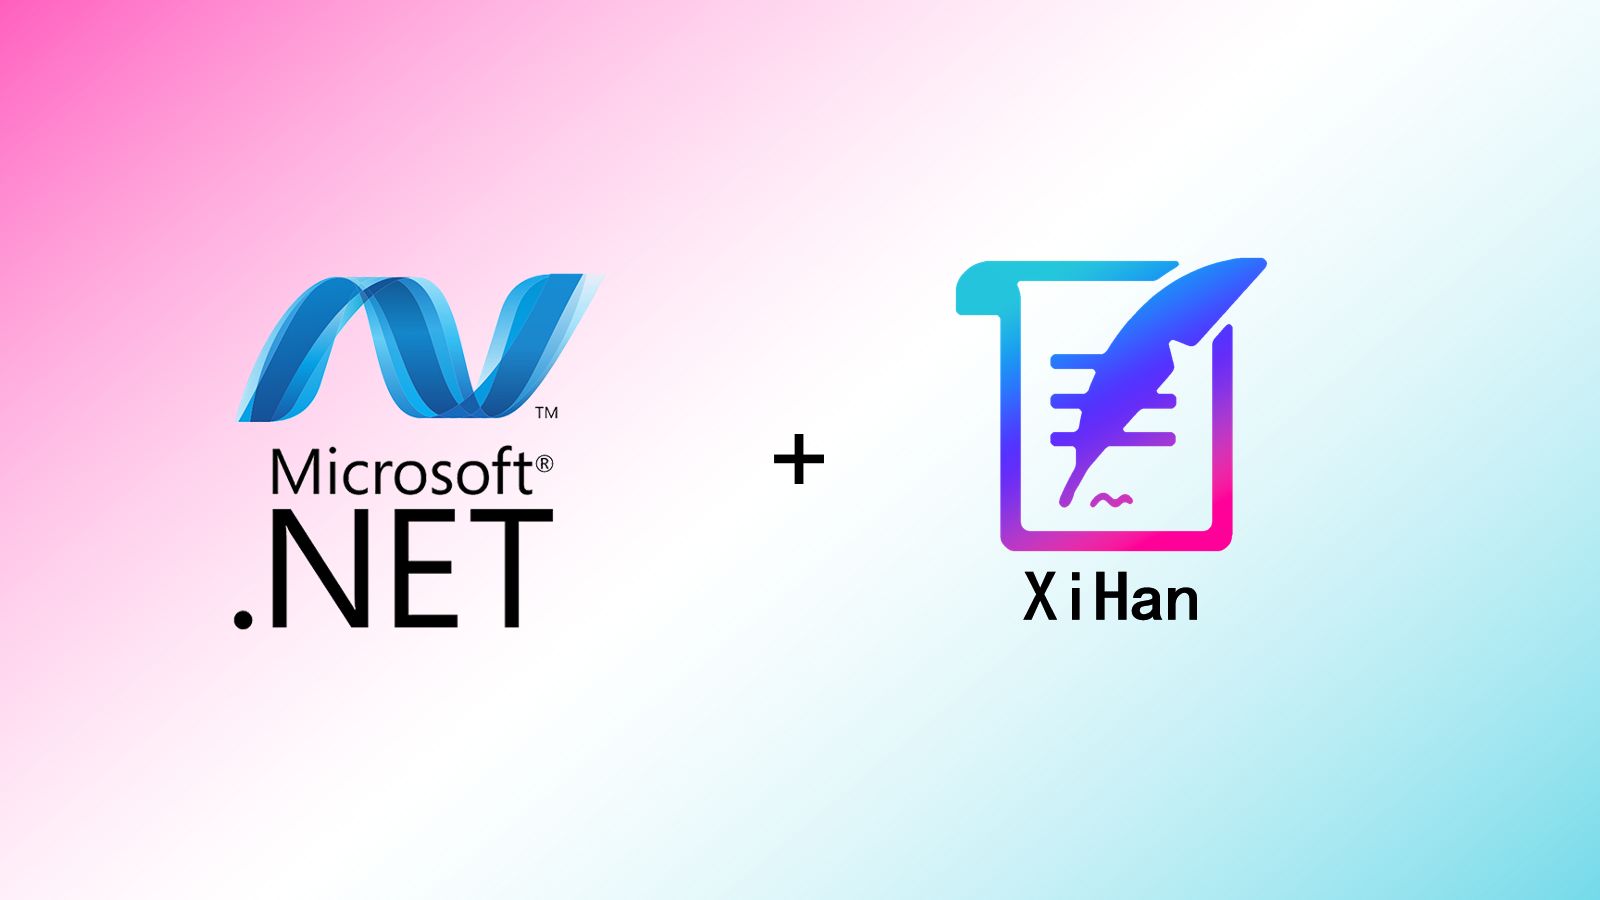
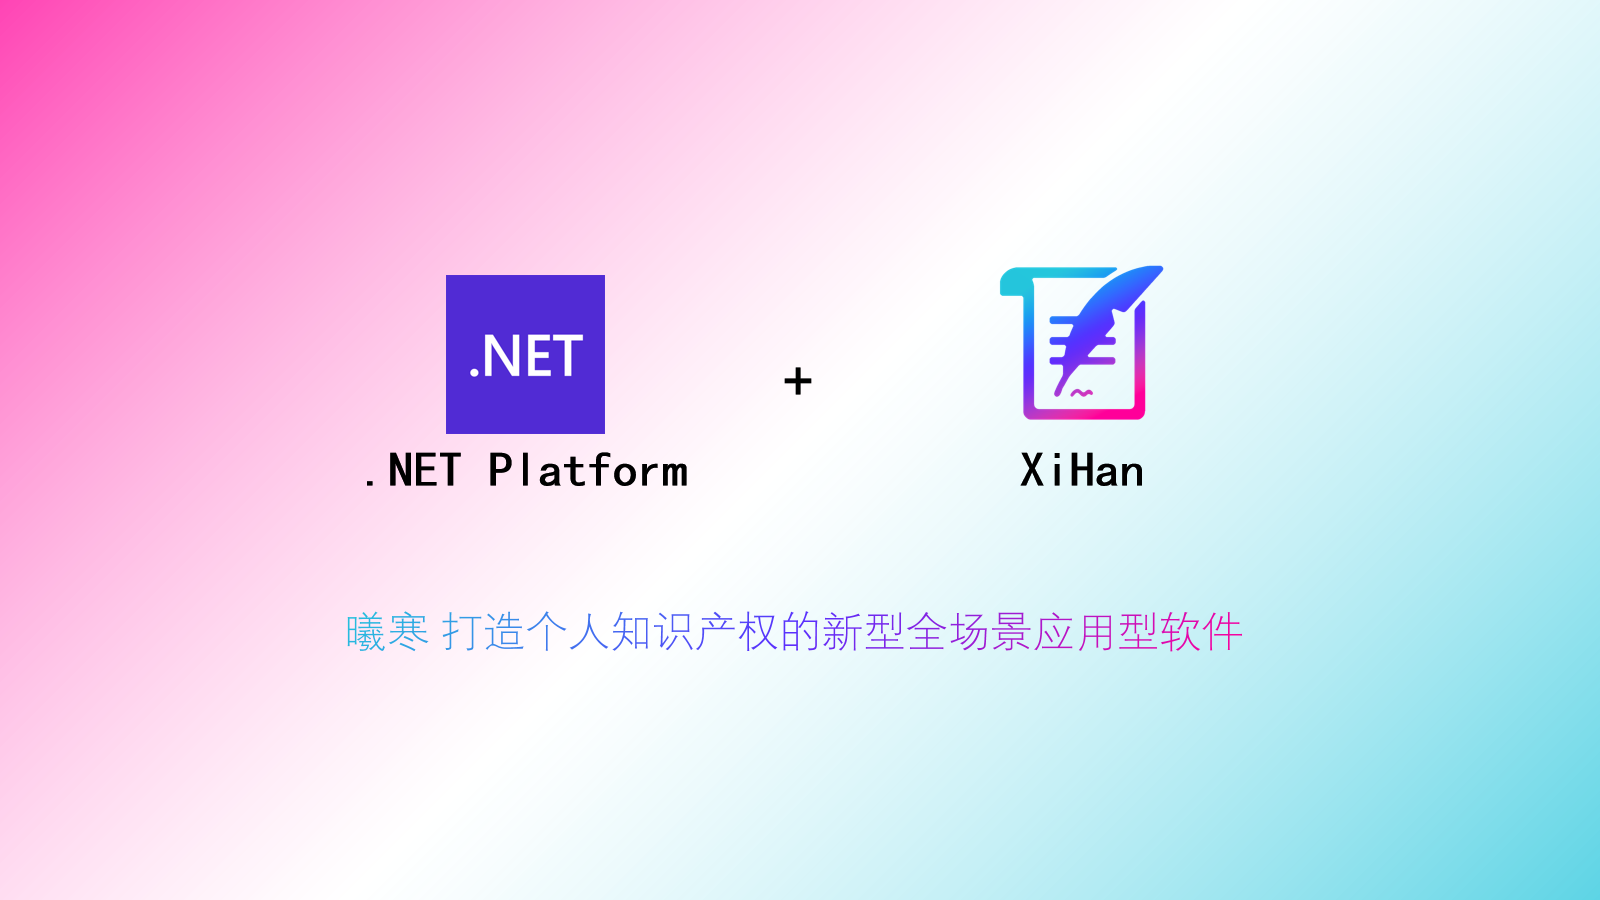
修改软件定义；

diff --git a/src/README.md b/src/README.md
@@ -4,7 +4,7 @@ icon: home
 title: 首页
 heroImage: /logo.svg
 heroText: 曦寒官方文档
-tagline: 一款打造个人知识产权的新型全场景应用型软件
+tagline: 打造个人知识产权的新型全场景应用型软件
 actions:
   - text: 项目简介
     link: /guide/
